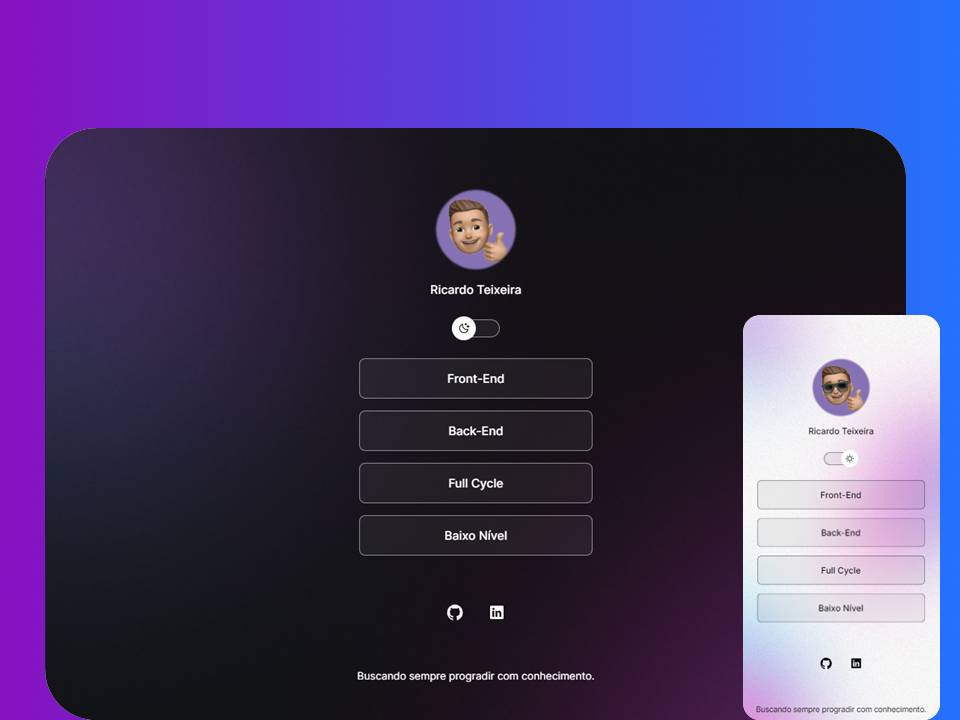
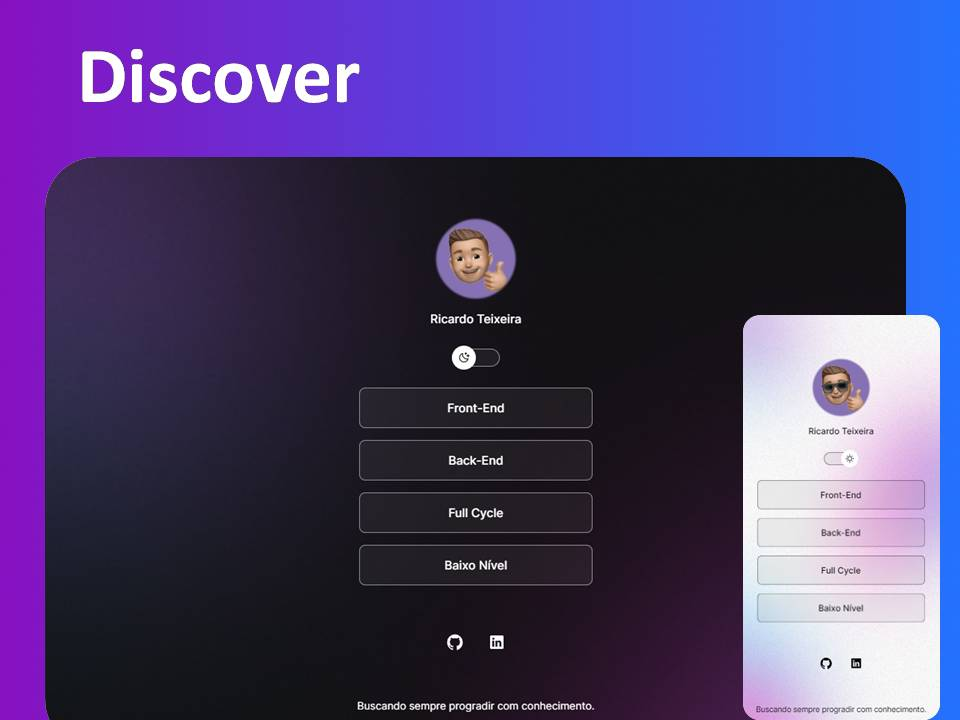
change background based on media queries.

diff --git a/style.css b/style.css
@@ -25,15 +25,8 @@
 }
 
 body{
-    /*
-    background-image: url(./assets/assets/bg-mobile.jpg);
-    background-repeat: no-repeat;
-    background-position: top center;
-    background-size: cover;
-    */
-
-    /*background: color image repeat position/size */
-    background: var(--bg-url) no-repeat top center/cover
+    background: var(--bg-url) no-repeat top center/cover;
+    height: 100vh;
 }
 
 body *{
@@ -43,8 +36,8 @@ body *{
 }
 
 #container{
-    width:360px;
-    /*border: 1px solid red;*/
+    width:100%;
+    max-width: 588px;
     margin: 56px auto 0px;
     padding: 0 24px;
 }
@@ -165,4 +158,14 @@ footer{
     padding: 24px 0;
     text-align: center;
     font-size: 14px;
+}
+
+@media (min-width: 700px){
+    :root {
+        --bg-url: url(./assets/assets/bg-desktop.jpg);
+    }
+
+    .light {
+        --bg-url: url(./assets/assets/bg-desktop-light.jpg);
+    }
 }

diff --git a/README.md b/README.md
@@ -49,4 +49,4 @@ Esse projeto está sob a licença MIT.
 
 ---
 
-Buscando sempre progradir com conhecimento :wave: [🧑💻](linkedin.com/in/ricardo-silvateixeira)
+Buscando sempre progradir com conhecimento :wave: [🧑💻](https://www.linkedin.com/in/ricardo-silvateixeira/)
